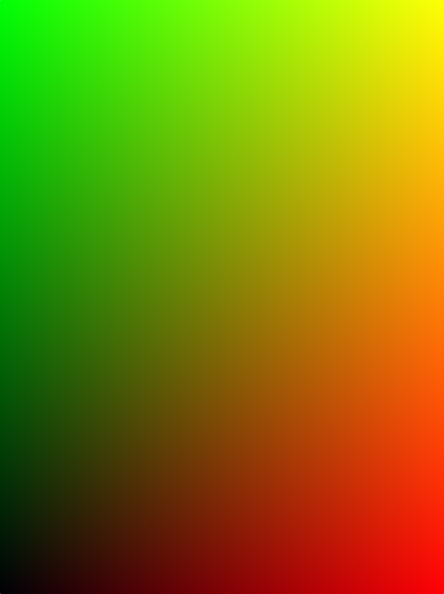
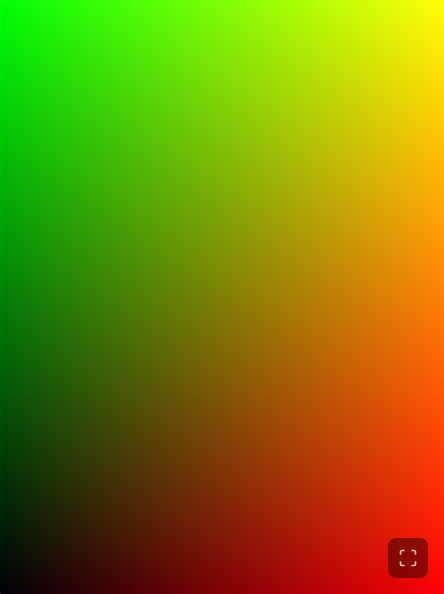
feat(shadertoy): add fullscreen support
Add fullscreen toggle button that appears when the host supports fullscreen
display mode. Uses the same pattern as pdf-server:
- Check availableDisplayModes in host context
- Show/hide button based on capability
- Toggle between inline and fullscreen via requestDisplayMode()
- Update UI state on host context changes

🤖 Generated with [Claude Code](https://claude.com/claude-code)

Changed region(s): [[0.8491, 0.8788, 0.9662, 1.0]]

diff --git a/examples/shadertoy-server/src/mcp-app.ts b/examples/shadertoy-server/src/mcp-app.ts
@@ -34,6 +34,13 @@ const log = {
 // Get element references
 const mainEl = document.querySelector(".main") as HTMLElement;
 const canvas = document.getElementById("canvas") as HTMLCanvasElement;
+const fullscreenBtn = document.getElementById(
+  "fullscreen-btn",
+) as HTMLButtonElement;
+
+// Display mode state
+let currentDisplayMode: "inline" | "fullscreen" = "inline";
+
 // Resize canvas to fill viewport
 function resizeCanvas() {
   canvas.width = window.innerWidth;
@@ -42,15 +49,45 @@ function resizeCanvas() {
 resizeCanvas();
 window.addEventListener("resize", resizeCanvas);
 
-// Handle host context changes (safe area insets)
+// Handle host context changes (display mode)
 function handleHostContextChanged(ctx: McpUiHostContext) {
-  if (ctx.safeAreaInsets) {
-    mainEl.style.paddingTop = `${ctx.safeAreaInsets.top}px`;
-    mainEl.style.paddingRight = `${ctx.safeAreaInsets.right}px`;
-    mainEl.style.paddingBottom = `${ctx.safeAreaInsets.bottom}px`;
-    mainEl.style.paddingLeft = `${ctx.safeAreaInsets.left}px`;
+  // Note: We ignore safeAreaInsets to maximize shader display area
+
+  // Show fullscreen button if available
+  if (ctx.availableDisplayModes?.includes("fullscreen")) {
+    fullscreenBtn.classList.add("available");
+  } else {
+    fullscreenBtn.classList.remove("available");
+  }
+
+  // Update display mode state and UI
+  if (ctx.displayMode) {
+    currentDisplayMode = ctx.displayMode as "inline" | "fullscreen";
+    if (currentDisplayMode === "fullscreen") {
+      mainEl.classList.add("fullscreen");
+    } else {
+      mainEl.classList.remove("fullscreen");
+    }
   }
 }
+
+// Toggle fullscreen mode
+async function toggleFullscreen() {
+  const newMode = currentDisplayMode === "fullscreen" ? "inline" : "fullscreen";
+  try {
+    const result = await app.requestDisplayMode({ mode: newMode });
+    currentDisplayMode = result.mode as "inline" | "fullscreen";
+    if (currentDisplayMode === "fullscreen") {
+      mainEl.classList.add("fullscreen");
+    } else {
+      mainEl.classList.remove("fullscreen");
+    }
+  } catch (err) {
+    log.error("Failed to change display mode:", err);
+  }
+}
+
+fullscreenBtn.addEventListener("click", toggleFullscreen);
 
 // ShaderToyLite instance
 let shaderToy: ShaderToyLiteInstance | null = null;

diff --git a/examples/shadertoy-server/src/mcp-app.css b/examples/shadertoy-server/src/mcp-app.css
@@ -5,8 +5,61 @@ html, body {
   overflow: hidden;
 }
 
+.main {
+  position: relative;
+  width: 100%;
+  height: 100%;
+}
+
 #canvas {
   width: 100%;
   height: 100%;
+  display: block;
+}
+
+/* Fullscreen button */
+.fullscreen-btn {
+  position: absolute;
+  bottom: 16px;
+  right: 16px;
+  width: 40px;
+  height: 40px;
+  border: none;
+  border-radius: 8px;
+  background: rgba(0, 0, 0, 0.6);
+  color: white;
+  cursor: pointer;
+  display: none; /* Hidden by default, shown when fullscreen available */
+  align-items: center;
+  justify-content: center;
+  transition: background 0.2s, opacity 0.2s;
+  opacity: 0.7;
+  z-index: 100;
+}
+
+.fullscreen-btn:hover {
+  background: rgba(0, 0, 0, 0.8);
+  opacity: 1;
+}
+
+.fullscreen-btn svg {
+  width: 20px;
+  height: 20px;
+}
+
+.fullscreen-btn .collapse-icon {
+  display: none;
+}
+
+.fullscreen-btn.available {
+  display: flex;
+}
+
+/* Fullscreen mode */
+.main.fullscreen .fullscreen-btn .expand-icon {
+  display: none;
+}
+
+.main.fullscreen .fullscreen-btn .collapse-icon {
   display: block;
 }

diff --git a/examples/shadertoy-server/mcp-app.html b/examples/shadertoy-server/mcp-app.html
@@ -9,6 +9,14 @@
 <body>
   <main class="main">
     <canvas id="canvas"></canvas>
+    <button id="fullscreen-btn" class="fullscreen-btn" title="Toggle fullscreen">
+      <svg class="expand-icon" viewBox="0 0 24 24" fill="none" stroke="currentColor" stroke-width="2">
+        <path d="M8 3H5a2 2 0 0 0-2 2v3m18 0V5a2 2 0 0 0-2-2h-3m0 18h3a2 2 0 0 0 2-2v-3M3 16v3a2 2 0 0 0 2 2h3"/>
+      </svg>
+      <svg class="collapse-icon" viewBox="0 0 24 24" fill="none" stroke="currentColor" stroke-width="2">
+        <path d="M8 3v3a2 2 0 0 1-2 2H3m18 0h-3a2 2 0 0 1-2-2V3m0 18v-3a2 2 0 0 1 2-2h3M3 16h3a2 2 0 0 1 2 2v3"/>
+      </svg>
+    </button>
   </main>
   <script type="module" src="/src/mcp-app.ts"></script>
 </body>
